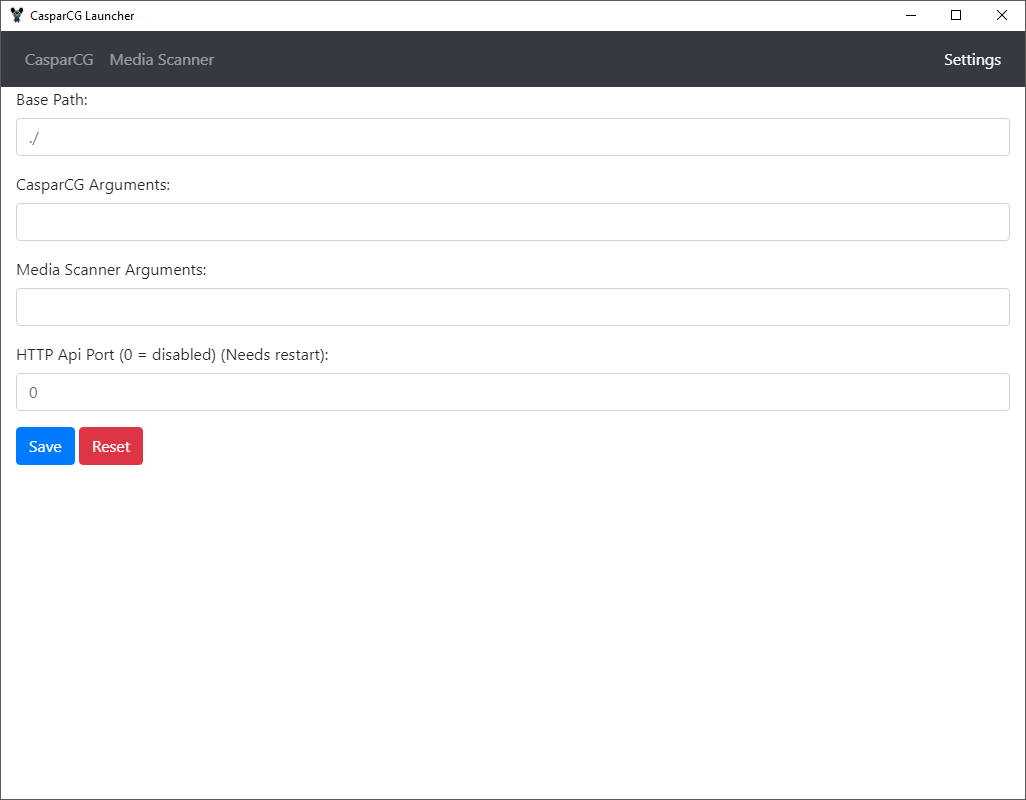
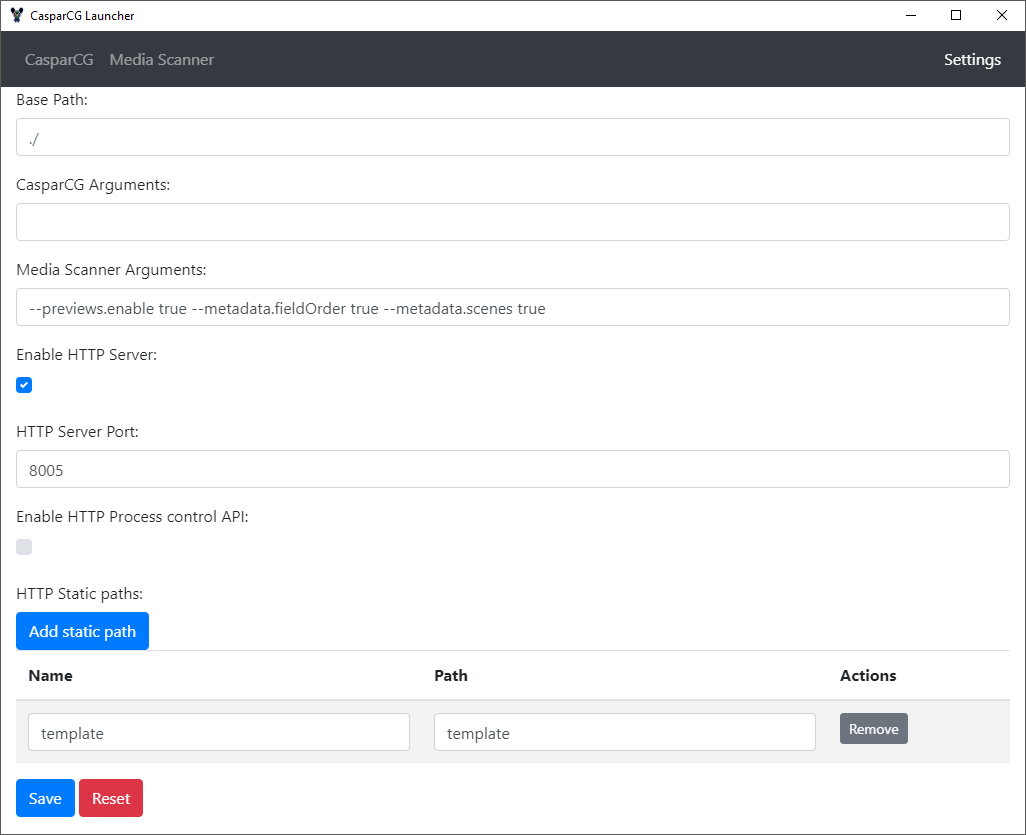
chore: Update readme

diff --git a/README.md b/README.md
@@ -11,6 +11,7 @@ This is used in the [**Sofie** TV News Studio Automation System](https://github.
  * Option to pass through command line options to each executable
  * Basic http api to stop/start/restart each process remotely
  * Auto restart each process upon crashing or exiting
+ * Serve folders over http (eg templates, media)
 
 ### Screenshots
 
@@ -29,7 +30,6 @@ yarn run dev
 
 # build electron application for production
 yarn run build
-
 
 # lint all JS/Vue component files in `src/`
 yarn run lint
